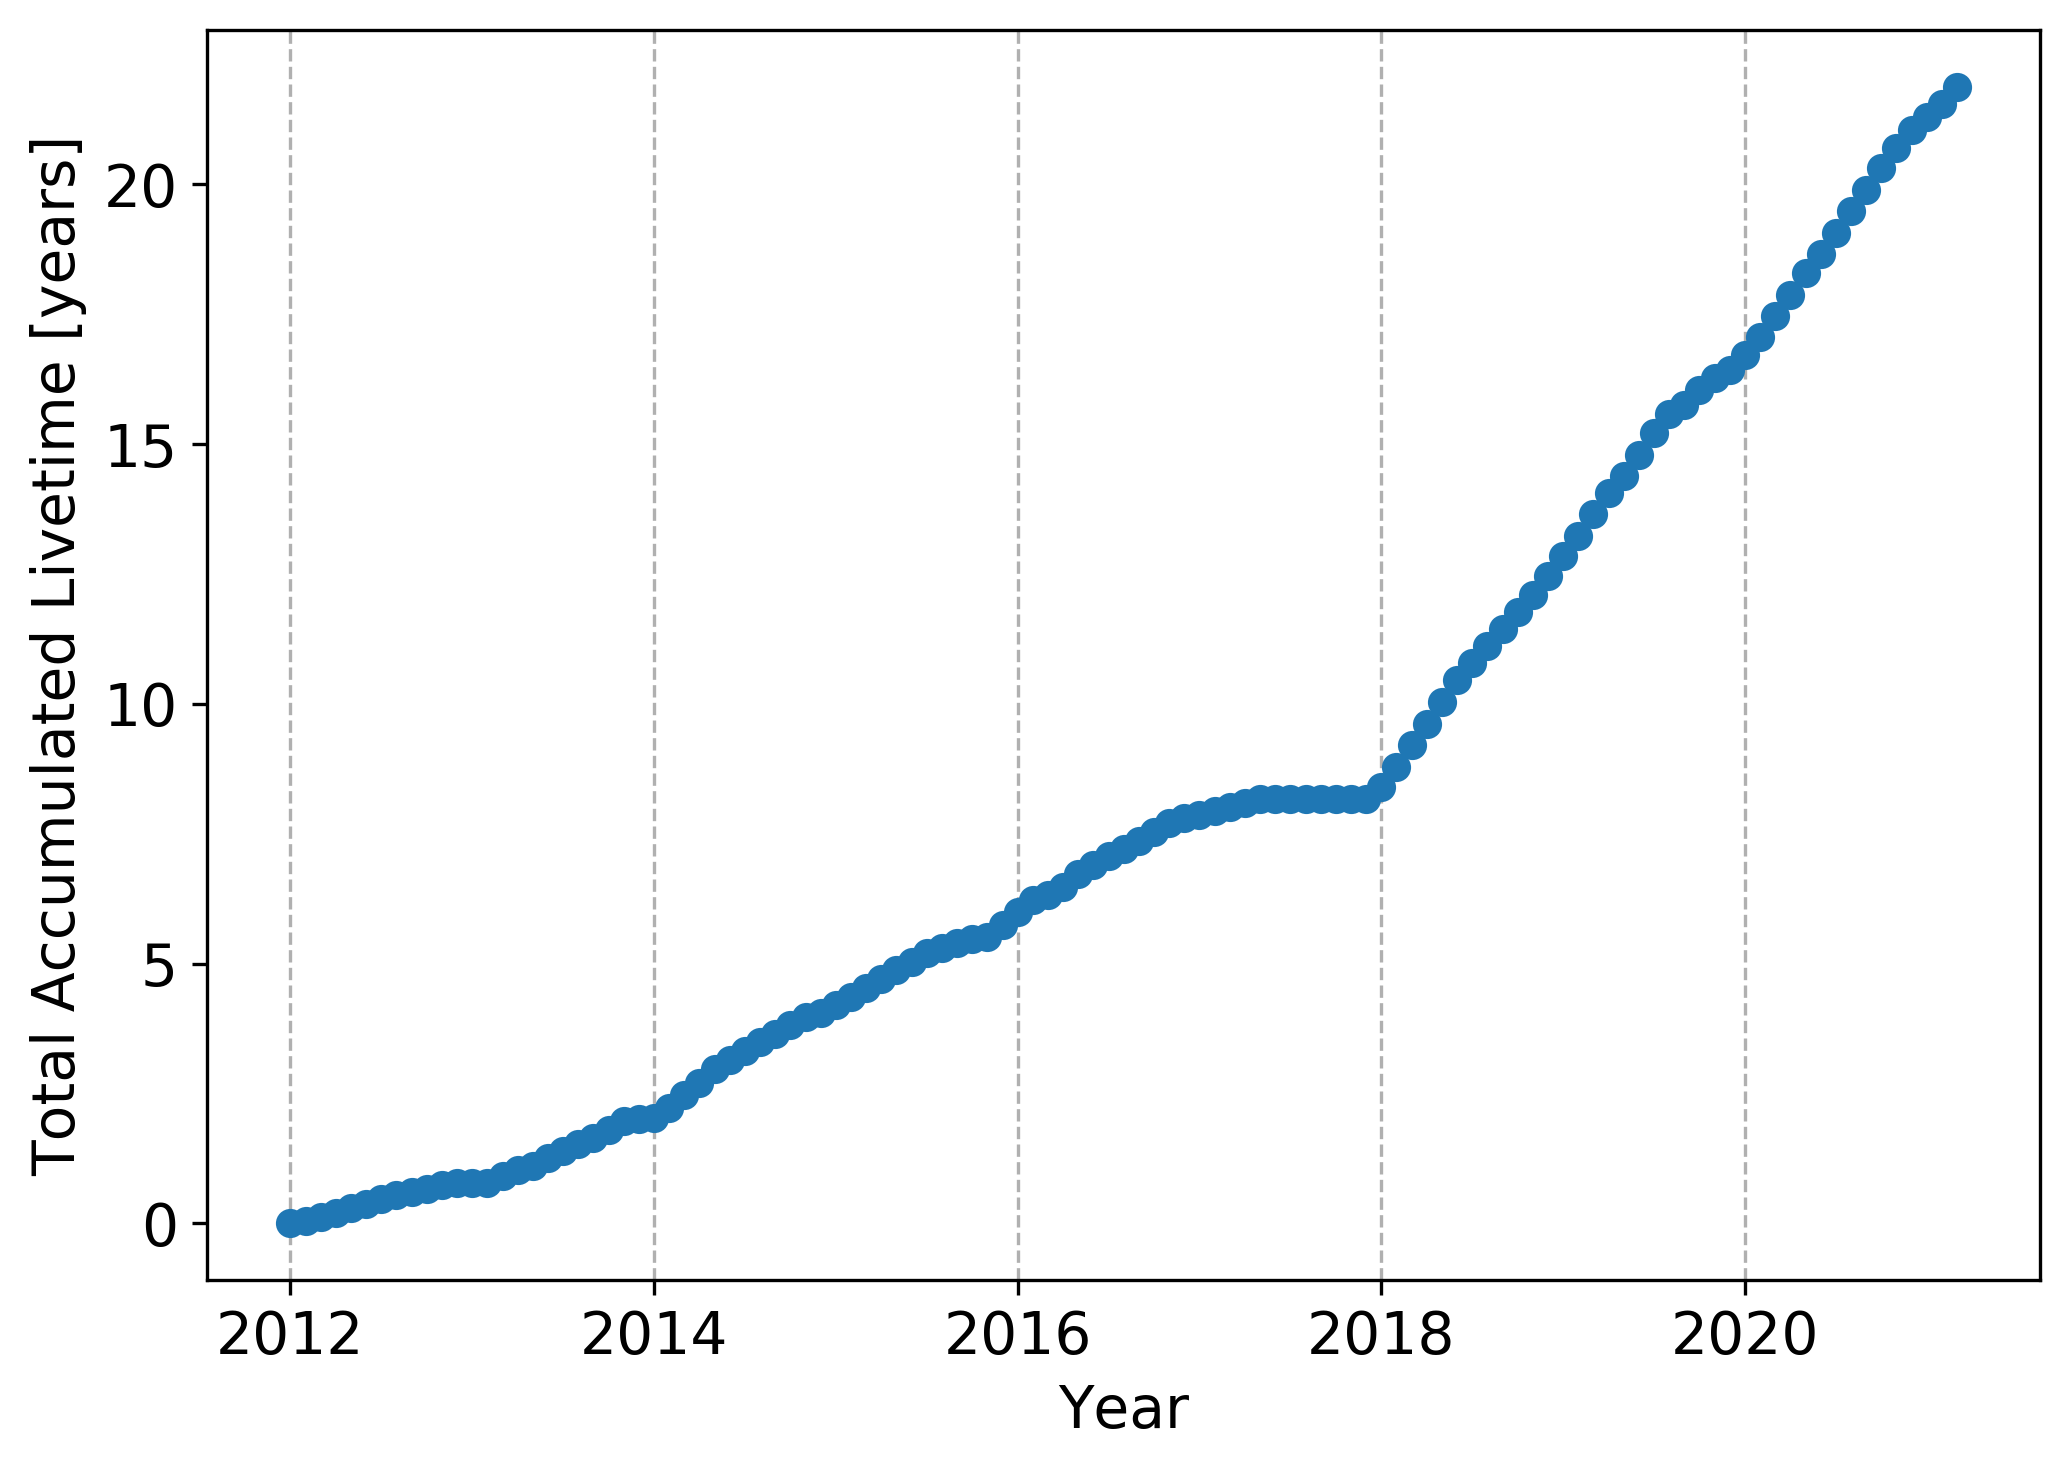
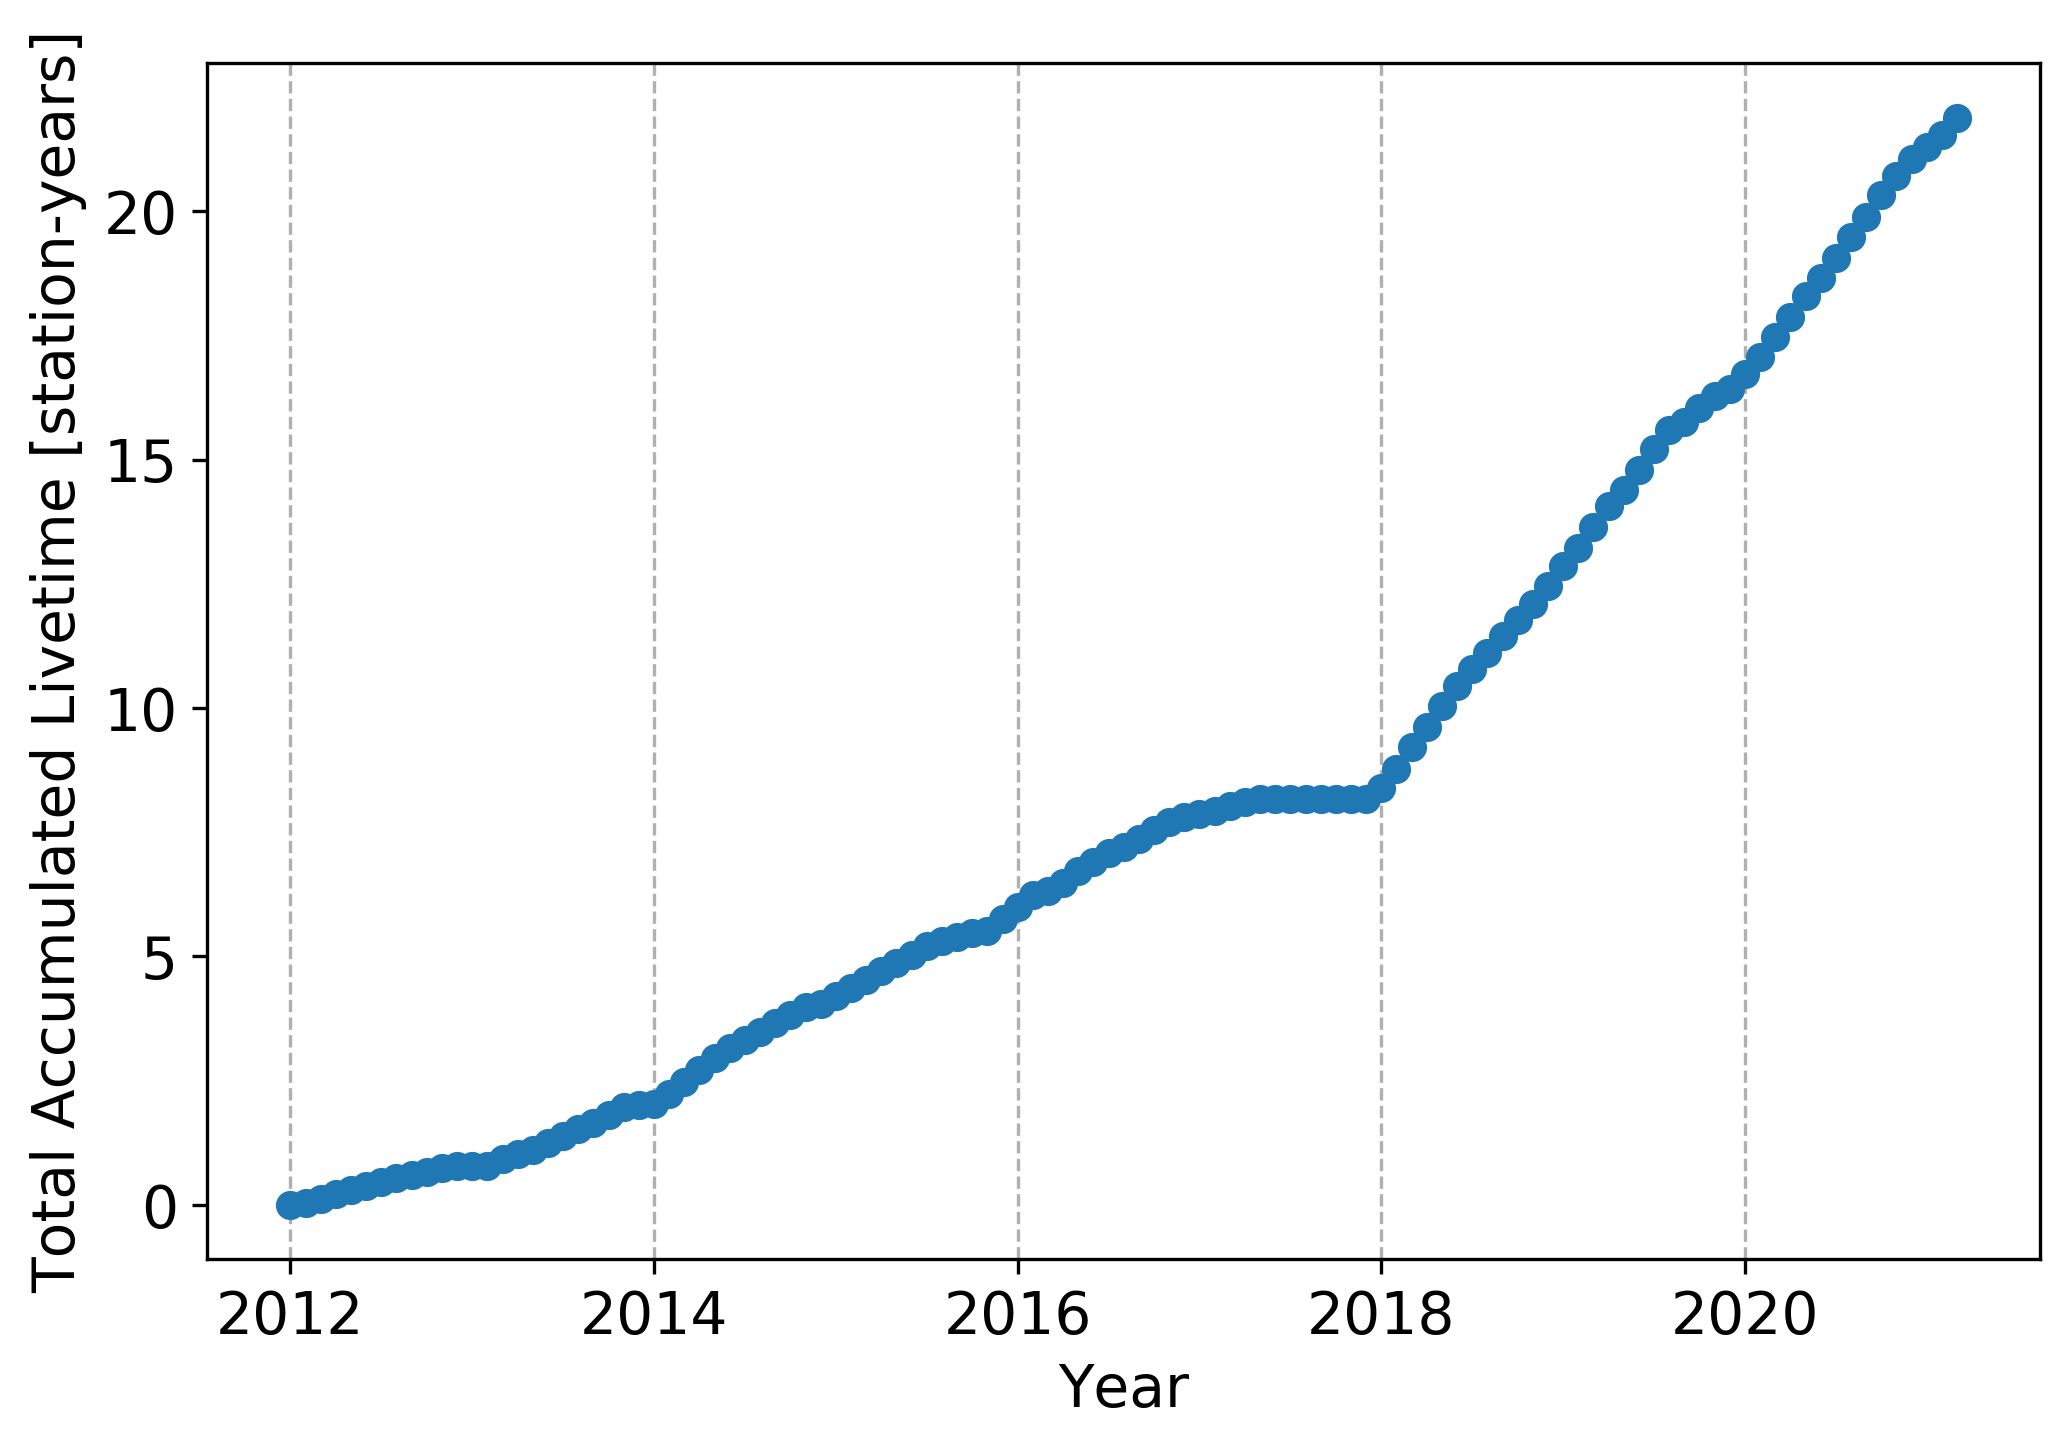
units of y-axis should be station years

diff --git a/talks/2021.04-APS-April/plot_livetime_vs_time.py b/talks/2021.04-APS-April/plot_livetime_vs_time.py
@@ -14,6 +14,6 @@ ax.plot(date,livetime,'o')
 ax.tick_params(labelsize=14)
 ax.grid(True,'major','x',linestyle='--');
 ax.set_xlabel('Year',size=14)
-ax.set_ylabel(r'Total Accumulated Livetime [years]', size=14)
+ax.set_ylabel(r'Total Accumulated Livetime [station-years]', size=14)
 plt.tight_layout()
 fig.savefig('livetime_vs_time.png',edgecolor='none',bbox_inches="tight",dpi=300, w_pad=1.5)
